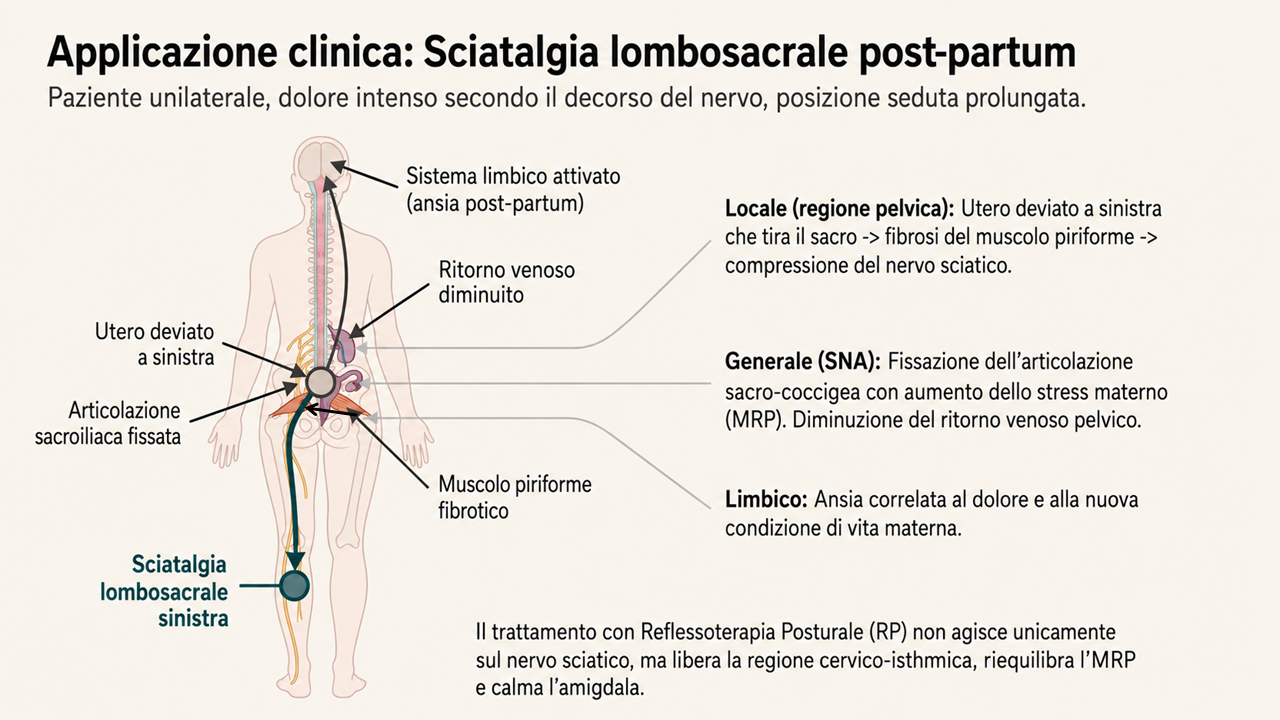
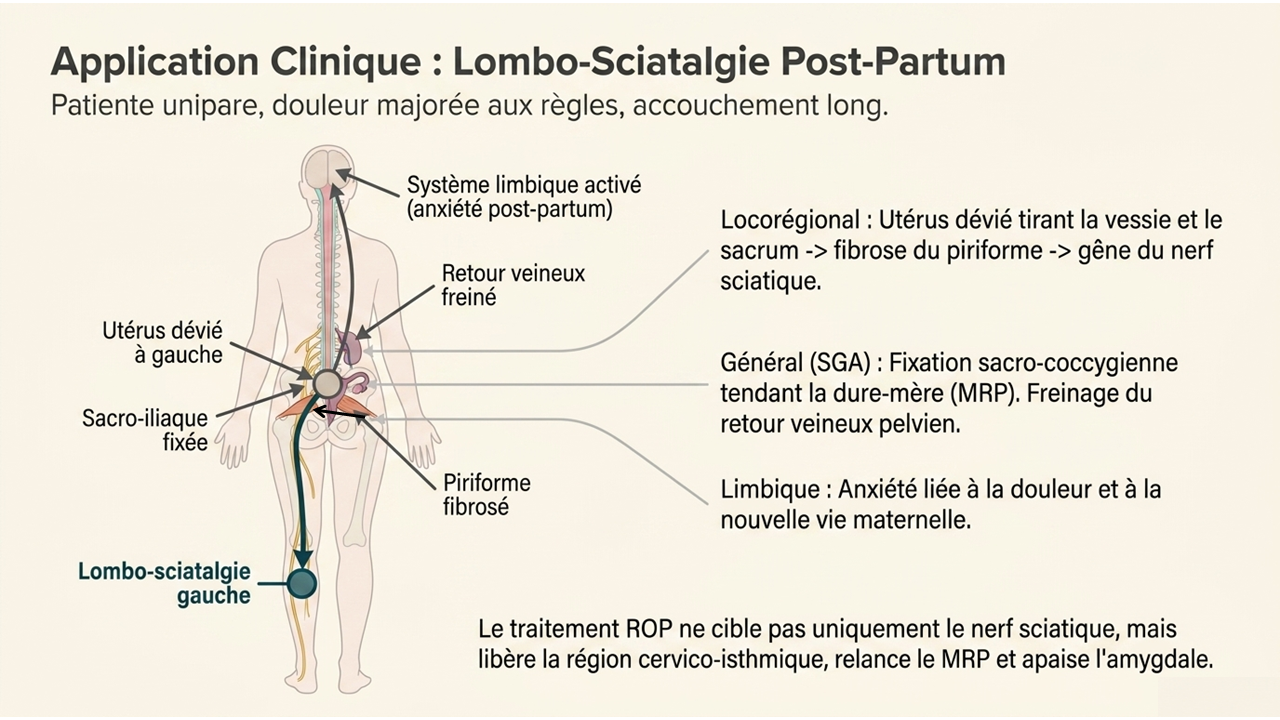
Fix chapter 2 synchronized slide 13

diff --git a/app/lecture/traitement-rop/page.tsx b/app/lecture/traitement-rop/page.tsx
@@ -47,14 +47,15 @@ export default async function TraitementRopPage({
 
   const { lang: langParam } = await searchParams
   const lang = await getServerLang(langParam)
-  const { chapter } = getChapter('chapter-2', lang)
+  const deckLang: Lang = 'fr'
+  const { chapter } = getChapter('chapter-2', deckLang)
   const bookTitle = translations[lang].reader.bookTitle
   return (
     <SlideSyncReader
       chapter={chapter}
       bookTitle={bookTitle}
-      slides={DECKS[lang]}
-      anchors={ANCHORS[lang]}
+      slides={DECKS[deckLang]}
+      anchors={ANCHORS[deckLang]}
       backHref="/chapitres-gratuits"
       classicHref="/chapitre-2"
     />

diff --git a/content/chapter2.slidesync.ts b/content/chapter2.slidesync.ts
@@ -22,7 +22,7 @@ export const chapter2Slides: SyncSlide[] = [
   { src: '/chapter-2/slides/slide-10.png', title: 'Cibles anatomiques I : syndrome général d’adaptation' },
   { src: '/chapter-2/slides/slide-11.png', title: 'Cible II : syndrome locorégional' },
   { src: '/chapter-2/slides/slide-12.png', title: 'Cible III : système limbique' },
-  { src: '/chapter-2/slides/slide-13.png', title: 'Application clinique : lombo-sciatalgie post-partum' },
+  { src: '/chapter-2/slides/slide-13.png?v=20260622', title: 'Application clinique : lombo-sciatalgie post-partum' },
   { src: '/chapter-2/slides/slide-15.png', title: 'Plan de traitement ROP — application au cas de Mme X' },
   { src: '/chapter-2/slides/slide-14.png', title: 'Le plan de traitement ROP ciblé pour Madame X' },
   { src: '/chapter-2/slides/slide-16.png', title: 'Indications thérapeutiques : le domaine des troubles fonctionnels' },